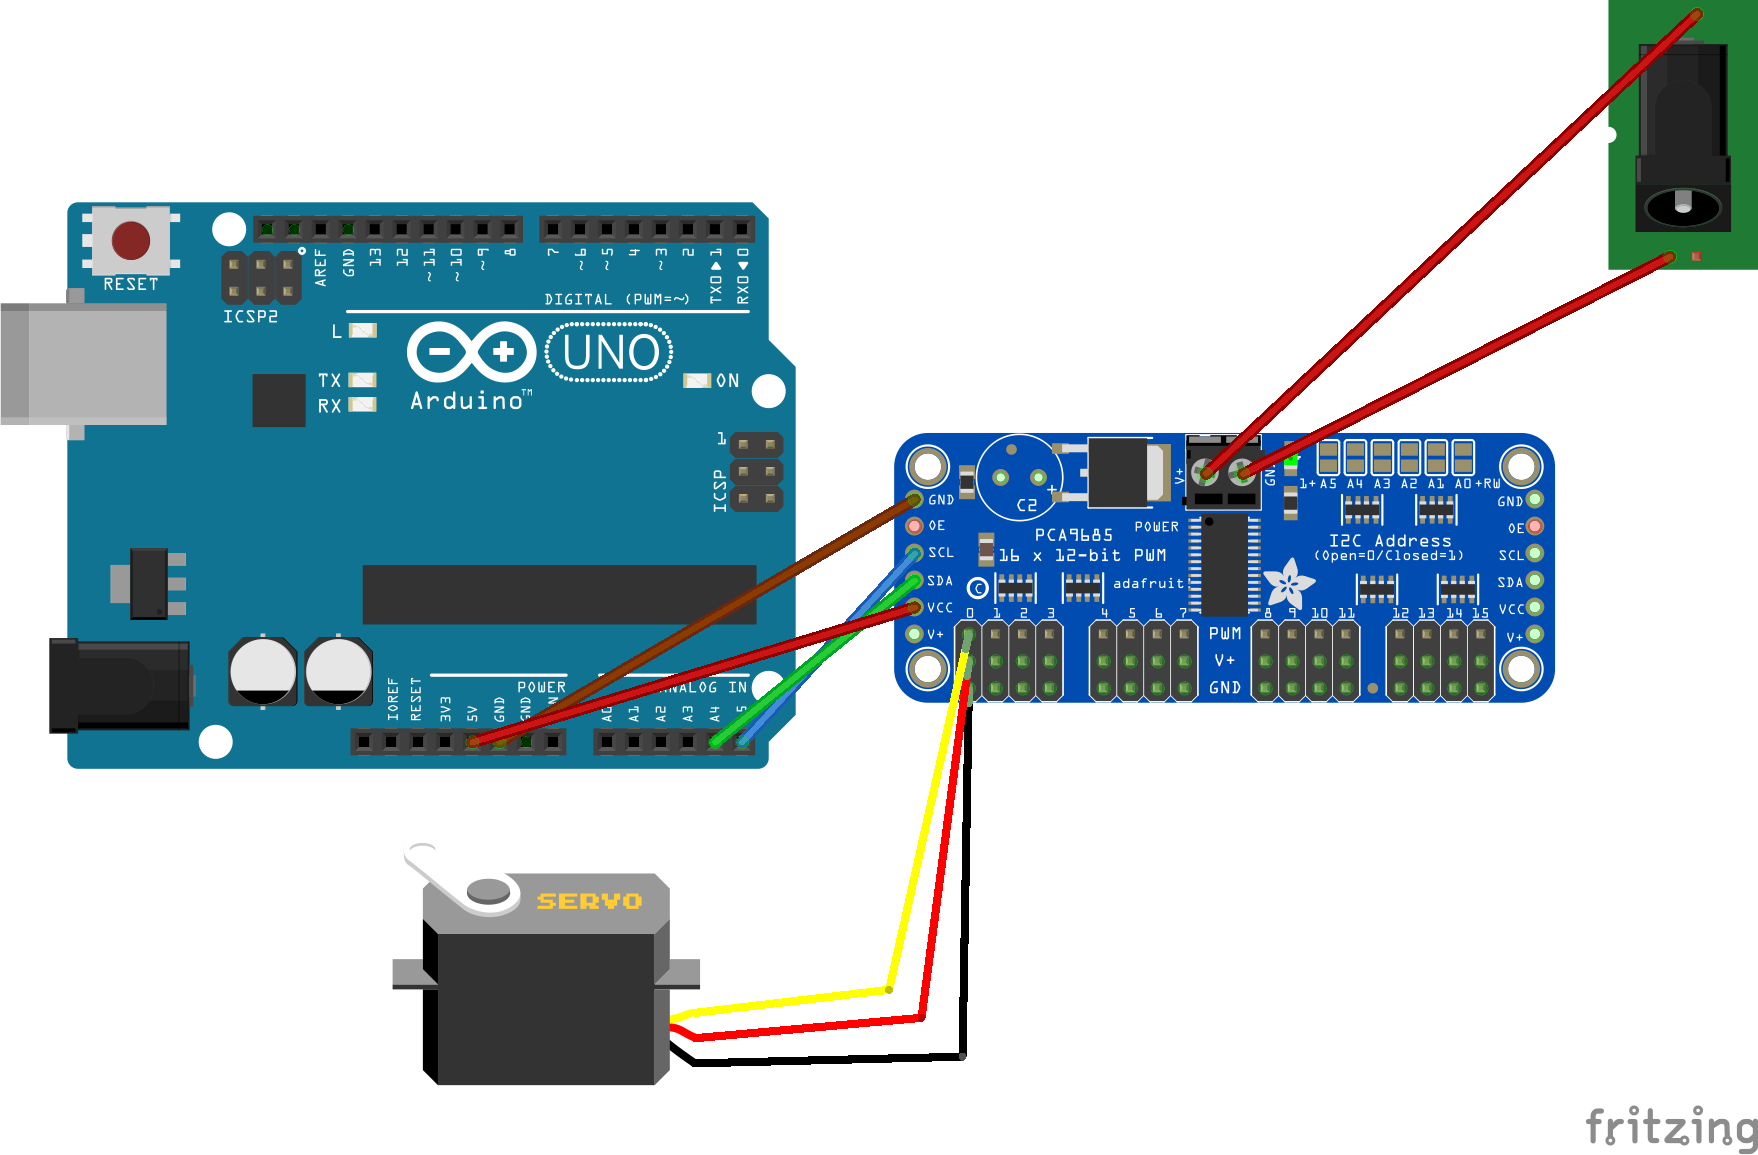
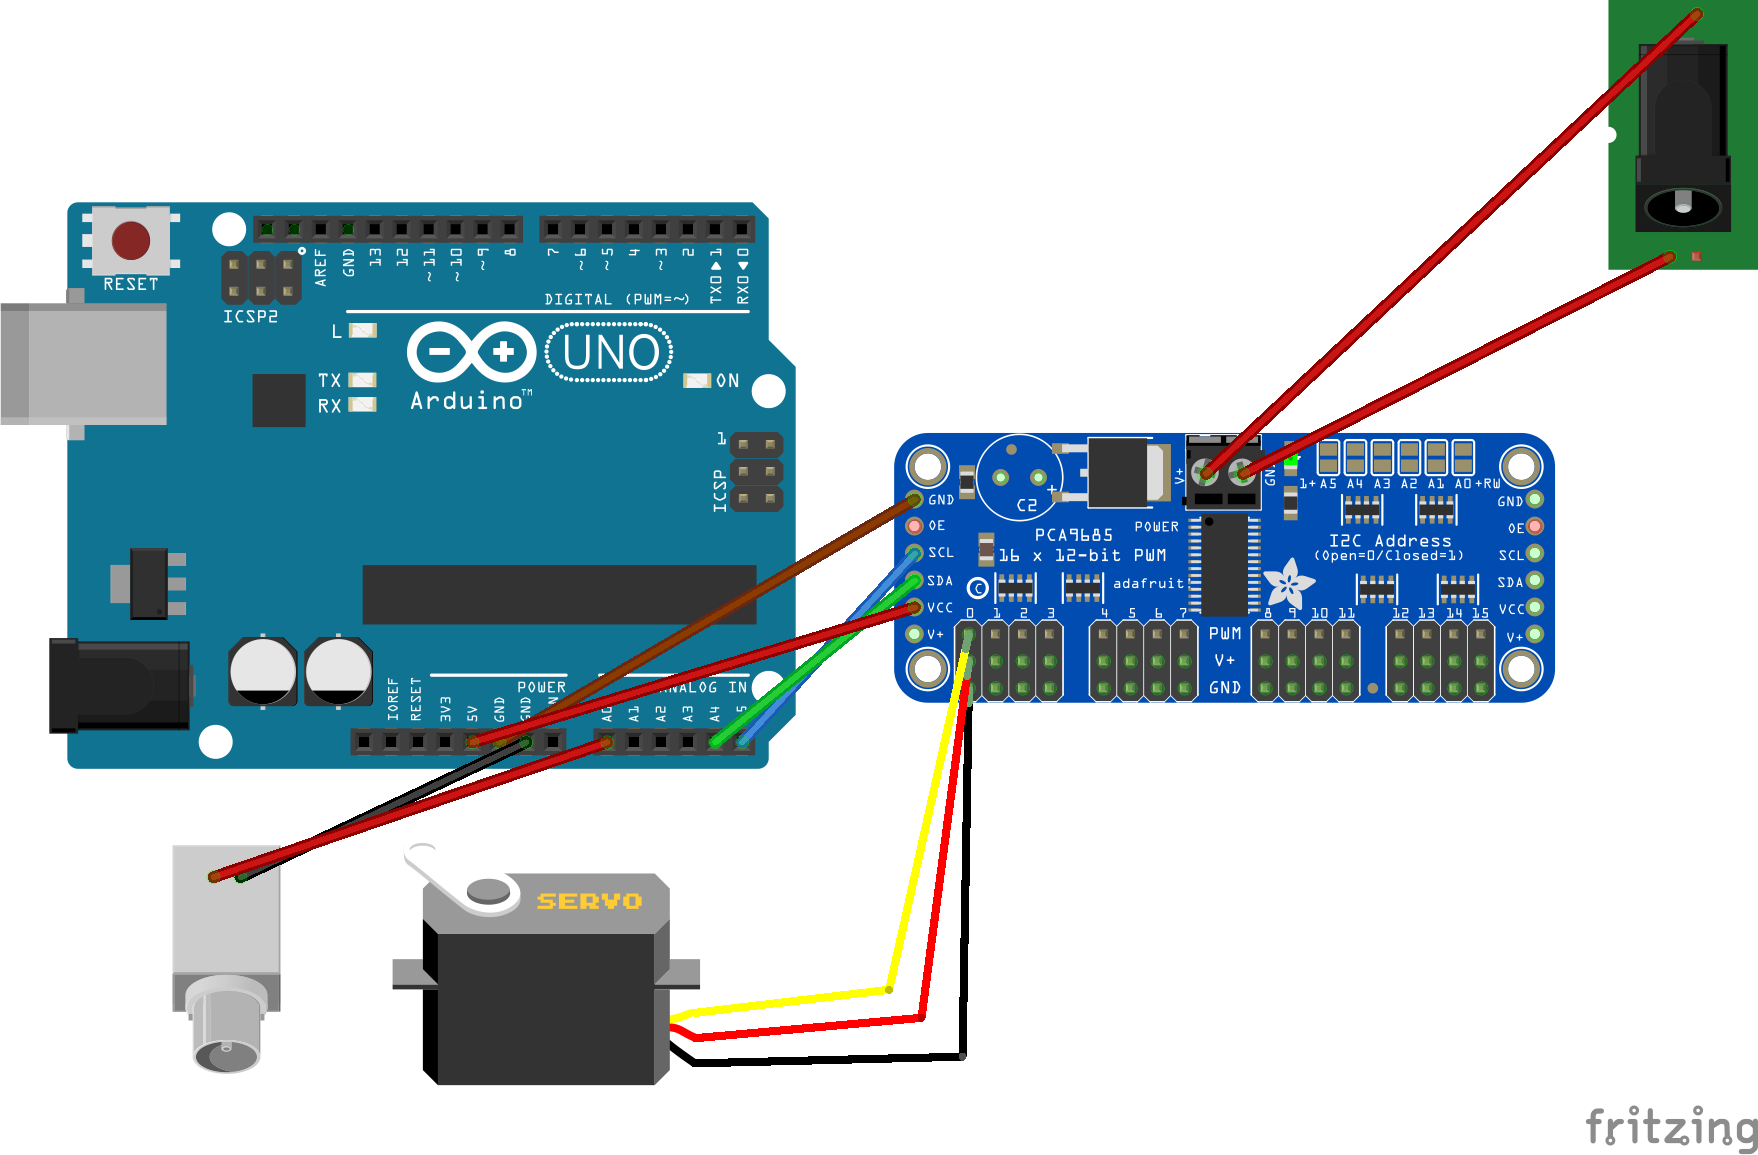
Finishing up

Changed region(s): [[0.0922, 0.6234, 0.3686, 0.9351]]

diff --git a/Parts list.md b/Parts list.md
@@ -1,28 +1,26 @@
-Servo: [HS-422 Deluxe Standard Servo | HITEC RCD USA](https://hitecrcd.com/products/servos/sport-servos/analog-sport-servos/hs-422/product)
+# Main Components
+* Servo: [HS-422 Deluxe Standard Servo | HITEC RCD USA](https://hitecrcd.com/products/servos/sport-servos/analog-sport-servos/hs-422/product)
 
-[https://www.amazon.com/dp/B0006O3WWI](https://www.amazon.com/dp/B0006O3WWI)
+* Servo Motor Driver PCA9685: [https://www.amazon.com/dp/B07Z8R2YB9](https://www.amazon.com/dp/B07Z8R2YB9) $13.99
 
-Servo Motor Driver PCA9685: [https://www.amazon.com/dp/B07Z8R2YB9](https://www.amazon.com/dp/B07Z8R2YB9) $13.99
+* Arduino Uno: [https://www.amazon.com/dp/B008GRTSV6](https://www.amazon.com/dp/B008GRTSV6) $22.50
 
-Arduino Uno case: [https://www.amazon.com/dp/B01C8500L8](https://www.amazon.com/dp/B01C8500L8)$4.89
+* Arduino Uno case: [https://www.amazon.com/dp/B01C8500L8](https://www.amazon.com/dp/B01C8500L8)$4.89
 
-Arduino Uno: [https://www.amazon.com/dp/B008GRTSV6](https://www.amazon.com/dp/B008GRTSV6) $22.50
-
-900mm Servo Extension: [https://www.amazon.com/dp/B074SZXXGM](https://www.amazon.com/dp/B074SZXXGM) $10..9
+ * 5V 4A Power Supply Charger  DC 5.5mm x 2.1mm: [https://www.amazon.com/dp/B08VWVLBWF](https://www.amazon.com/dp/B08VWVLBWF) $11.99
 
 
-5V usb adapter: [https://www.amazon.com/dp/B017TXGM4I](https://www.amazon.com/dp/B017TXGM4I) $7.99
+# Conectors
 
-Jumper wires: [https://www.amazon.com/dp/B07GD2BWPY](https://www.amazon.com/dp/B07GD2BWPY) $5.99
+* Female Red Black DC Power Pigtail Female Cable Lead Plug 10in 2.1x5.5mm [https://www.amazon.com/dp/B01N5JHFC0](https://www.amazon.com/dp/B01N5JHFC0) $8.59
 
- 5V 4A Power Supply Charger  DC 5.5mm x 2.1mm: [https://www.amazon.com/dp/B08VWVLBWF](https://www.amazon.com/dp/B08VWVLBWF) $11.99
+* 1x Female Jack to AV 2 Screw Terminal Connector [https://www.amazon.com/dp/B07TT14RGF](https://www.amazon.com/dp/B07TT14RGF) $8.99 
 
- 5.5mm x 2.1mm Extension Cord (5m), [https://www.amazon.com/dp/B08GZ8JP87](https://www.amazon.com/dp/B08GZ8JP87) $8.99
+# Cables
+ * 1x 25 feet bnc cable [https://www.amazon.com/dp/B07R567S3J](https://www.amazon.com/dp/B07R567S3J) $31.99
 
- Female Red Black DC Power Pigtail Female Cable Lead Plug 10in 2.1x5.5mm [https://www.amazon.com/dp/B01N5JHFC0](https://www.amazon.com/dp/B01N5JHFC0) $8.59
+ * 5.5mm x 2.1mm Extension Cord (5m), [https://www.amazon.com/dp/B08GZ8JP87](https://www.amazon.com/dp/B08GZ8JP87) $8.99
 
- 20 feet USB A Male to B Male [https://www.amazon.com/dp/B08FT23RLH](https://www.amazon.com/dp/B08FT23RLH) $12.99
+ * 900mm Servo Extension: [https://www.amazon.com/dp/B074SZXXGM](https://www.amazon.com/dp/B074SZXXGM) $10.90
 
- 1x Female Jack to AV 2 Screw Terminal Connector [https://www.amazon.com/dp/B07TT14RGF](https://www.amazon.com/dp/B07TT14RGF) $8.99 
-
- 1x 25 feet bnc cable [https://www.amazon.com/dp/B07R567S3J](https://www.amazon.com/dp/B07R567S3J) $31.99
+ * Jumper wires: [https://www.amazon.com/dp/B07GD2BWPY](https://www.amazon.com/dp/B07GD2BWPY) $5.99

diff --git a/README.md b/README.md
@@ -1,1 +1,6 @@
 # vr-ball-lock
+
+## Notes
+Theres a very bright LED on the PCA9685 board. I couldnt remove it by desodering but the board seems to work fine after I just broke the LED with a plier.
+## testing the arduino uno control
+You can add a simple jumper cable between digital pin 11 and 12. This will cycle between on/off every second.
